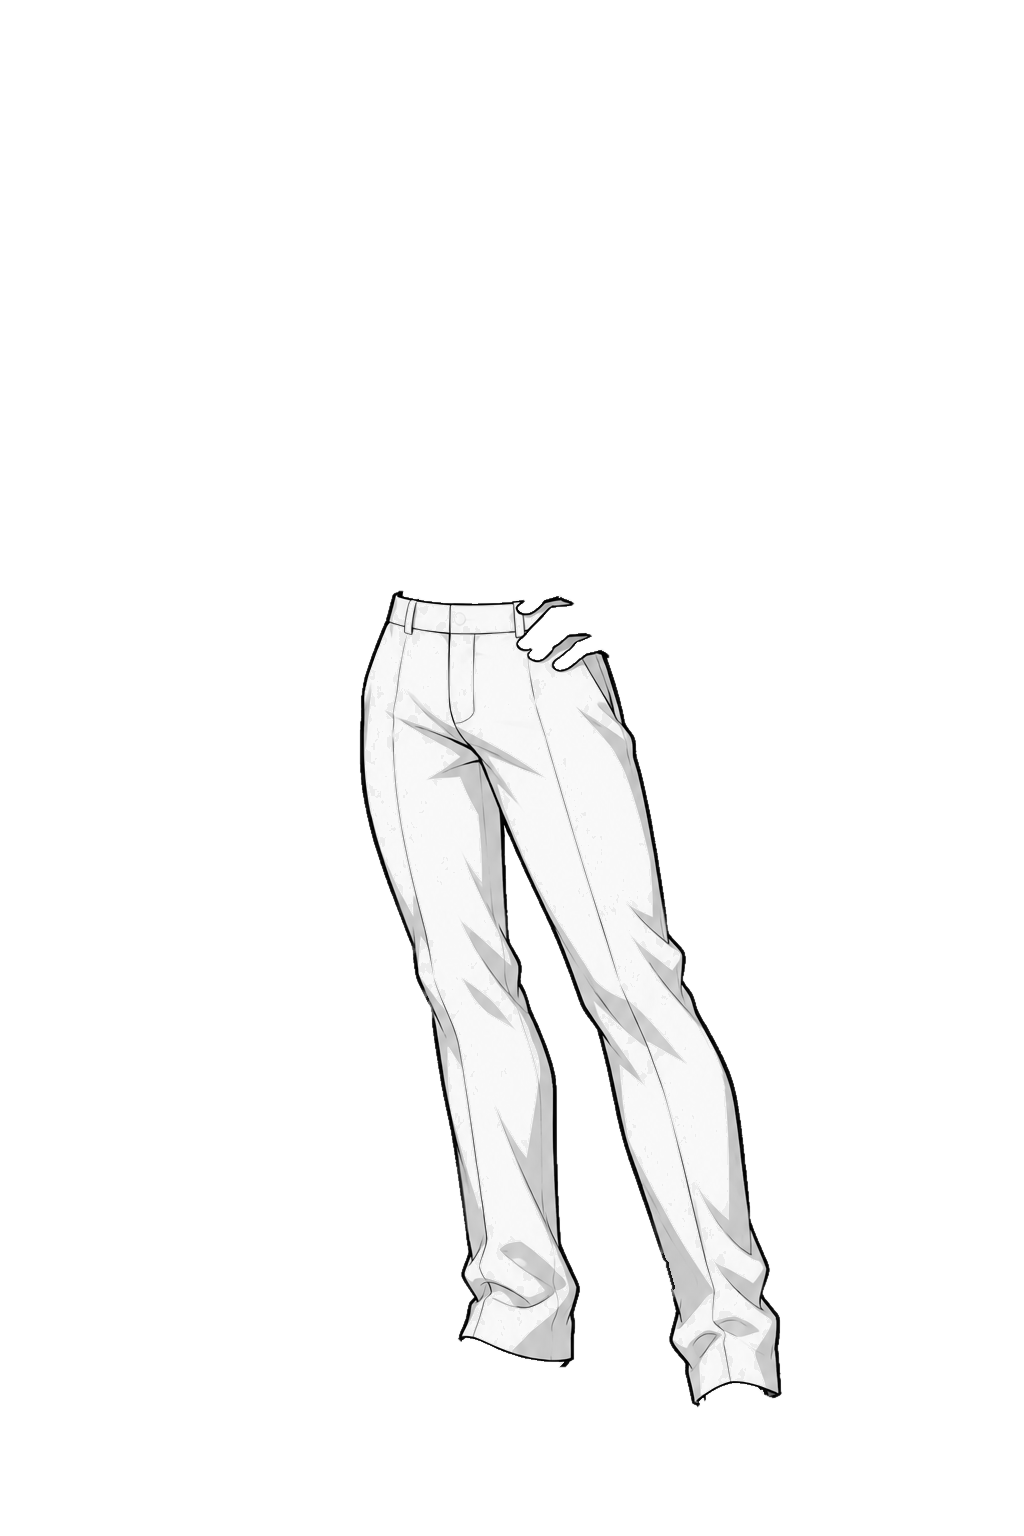
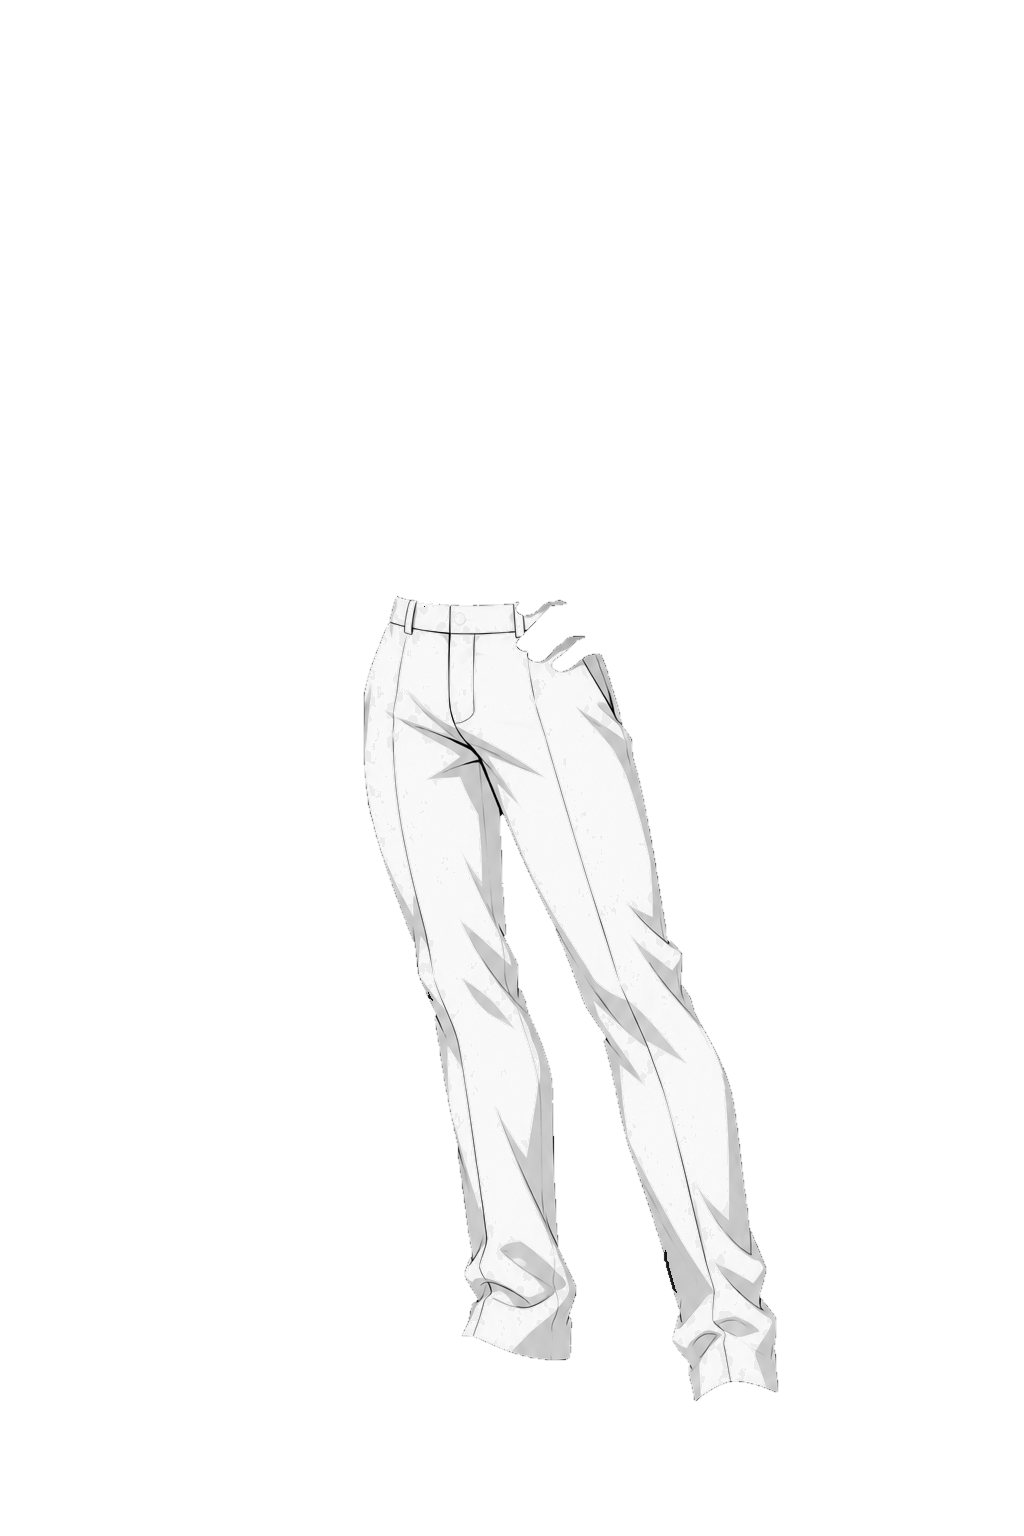
Примерочная: перекрашивается только выделенная область, контур вещи — без цвета
Claude-Session: https://claude.ai/code/session_013zhon25Gp5vam6iSjkw8f2

diff --git a/docs/dev_docs/design/clothing-game-mockup.html b/docs/dev_docs/design/clothing-game-mockup.html
@@ -288,7 +288,11 @@ function tinted(id, color, icon) {
   if (color) {
     x.globalCompositeOperation = "multiply"; x.fillStyle = COLORS[color].hex; x.fillRect(0, 0, sw, sh);
     x.globalCompositeOperation = "destination-in"; x.drawImage(img, sx, sy, sw, sh, 0, 0, sw, sh);
+    x.globalCompositeOperation = "source-over";
   }
+  // контур вещи за краем перекрашиваемой области — как нарисован, без цвета
+  const line = !icon && IMG[id + "_line"];
+  if (line && line.width) x.drawImage(line, 0, 0, sw, sh);
   if (!icon) applyClips(x, id);
   return c;
 }
@@ -427,7 +431,7 @@ $("ruToggle").addEventListener("click", e => {
 });
 $("next").addEventListener("click", () => start((sitIndex + 1) % SITUATIONS.length));
 
-Promise.all([...FRAMES, "hand_palm", ...Object.keys(ITEMS)].map(load).concat(Object.keys(ITEMS).map(loadIcon), CLIPS.map(loadClip))).then(() => {
+Promise.all([...FRAMES, "hand_palm", ...Object.keys(ITEMS), ...Object.keys(ITEMS).map(k => k + "_line")].map(load).concat(Object.keys(ITEMS).map(loadIcon), CLIPS.map(loadClip))).then(() => {
   start(0); blinkLoop();
 });
 </script>

diff --git a/scripts/clothing-game-hand-masks.py b/scripts/clothing-game-hand-masks.py
@@ -1,8 +1,8 @@
 # Слои вещей по ручной обводке: prod/masks/<вещь>_mask.png — заливка #FF00FF поверх
 # prod/sources/<вещь>.png; результат — prod/layers/<вещь>.png.
-# Обводка = силуэт вещи, берётся как есть, ничего не обрезается. Внутри силуэта:
-# пиксели вещи (белые/серые) берутся из картинки; где под обводкой не вещь (кожа, фон) —
-# дорисовывается ткань; по краю силуэта, где нет своего контура, рисуется контур.
+# Перекрашивается строго выделенная область (layers/<вещь>.png); чёрный контур вещи за краем
+# выделения кладётся отдельно, без перекраски (layers/<вещь>_line.png). Где под выделением
+# не вещь (кожа, фон) — дорисовывается ткань, по краю без своего контура — контур.
 # Запуск из корня: python3 scripts/clothing-game-hand-masks.py pants shoes shirt ...
 import sys
 from pathlib import Path
@@ -20,22 +20,25 @@ for name in sys.argv[1:]:
     src = np.array(Image.open(PROD / "sources" / f"{name}.png").convert("RGB")).astype(np.int16)
     mag = (painted[..., 0] > 190) & (painted[..., 1] < 100) & (painted[..., 2] > 190)
     mag = nd.binary_fill_holes(nd.binary_closing(mag, iterations=2))
-    # контур вещи прямо за краем обводки тоже входит в вещь
     lum = src @ np.array([0.299, 0.587, 0.114])
-    # контур целиком: тёмные пиксели в полосе до 7 px за краем обводки, связанные с ней
-    ring = nd.binary_dilation(mag, iterations=7) & ~mag
-    line = ring & (lum < 110)
-    lab, _ = nd.label(line | mag)
-    shape = np.isin(lab, np.unique(lab[mag]))
-    shape = nd.binary_closing(shape, iterations=2) | mag
+    # 1) перекрашиваемая часть — строго выделенная область
     mx, mn = src.max(2), src.min(2)
-    cloth = (((mx - mn) / np.maximum(mx, 1) < 0.15) & (mn < 250)) | (mx < 110)   # белая/серая вещь и контур
+    cloth = (((mx - mn) / np.maximum(mx, 1) < 0.15) & (mn < 250)) | (mx < 110)
     out = np.where(cloth, lum, FABRIC).astype(np.float32)
-    edge = shape & ~nd.binary_erosion(shape, iterations=3)
-    has_line = nd.binary_dilation(lum < 70, iterations=4)
-    out[edge & ~has_line] = INK
-    alpha = (nd.gaussian_filter(shape.astype(np.float32), 0.6) * 255).astype(np.uint8)
-    o = np.dstack([out, out, out]).clip(0, 255).astype(np.uint8)
-    res = np.dstack([o, alpha]); res[alpha == 0] = 0
+    edge = mag & ~nd.binary_erosion(mag, iterations=3)
+    out[edge & ~nd.binary_dilation(lum < 70, iterations=4)] = INK   # контур там, где своего нет
+    a = (nd.gaussian_filter(mag.astype(np.float32), 0.5) * 255).astype(np.uint8)
+    o = np.dstack([out] * 3).clip(0, 255).astype(np.uint8)
+    res = np.dstack([o, a]); res[a == 0] = 0
     Image.fromarray(res).save(PROD / "layers" / f"{name}.png", optimize=True)
+    # 2) контур вещи за краем выделения — без перекраски, как на картинке
+    ring = nd.binary_dilation(mag, iterations=7) & ~mag
+    line = ring & (lum < 140)
+    lab, _ = nd.label(line | mag)
+    line = np.isin(lab, np.unique(lab[mag])) & ~mag
+    la = np.clip((140 - lum) / 70, 0, 1) * line          # мягкий край линии по её яркости
+    la = (la * 255).astype(np.uint8)
+    res = np.dstack([src.clip(0, 255).astype(np.uint8), la]); res[la == 0] = 0
+    Image.fromarray(res).save(PROD / "layers" / f"{name}_line.png", optimize=True)
+    shape = mag | line
     print("ok", name, int(shape.sum()), "px")
